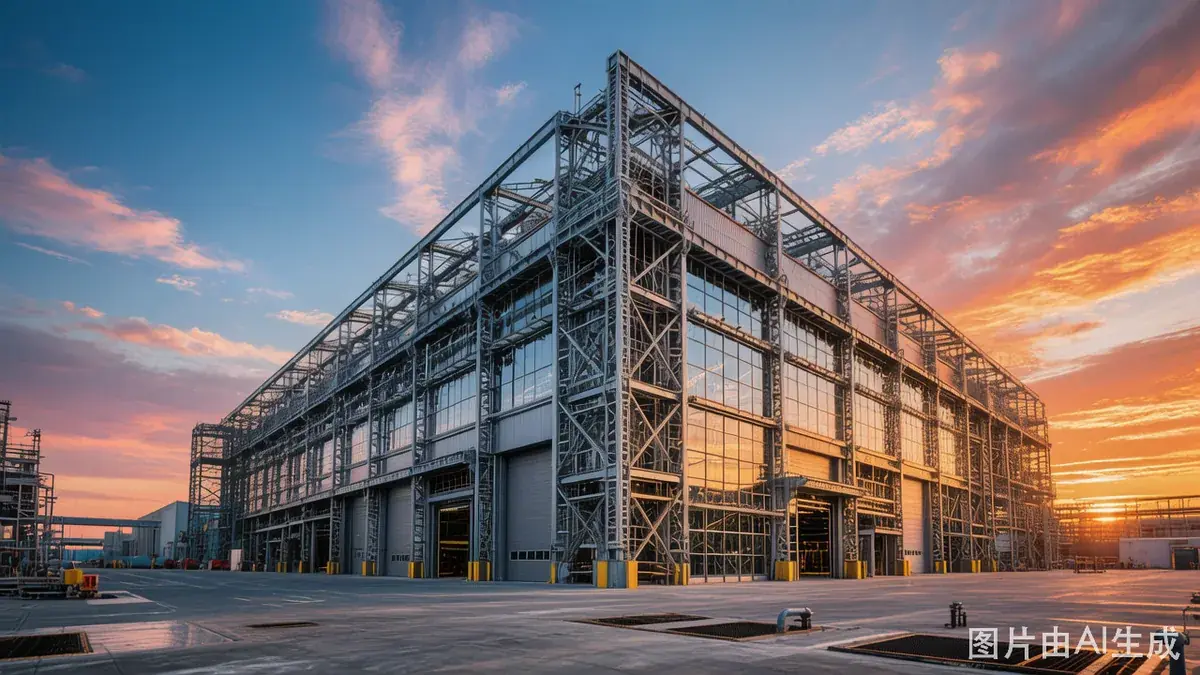
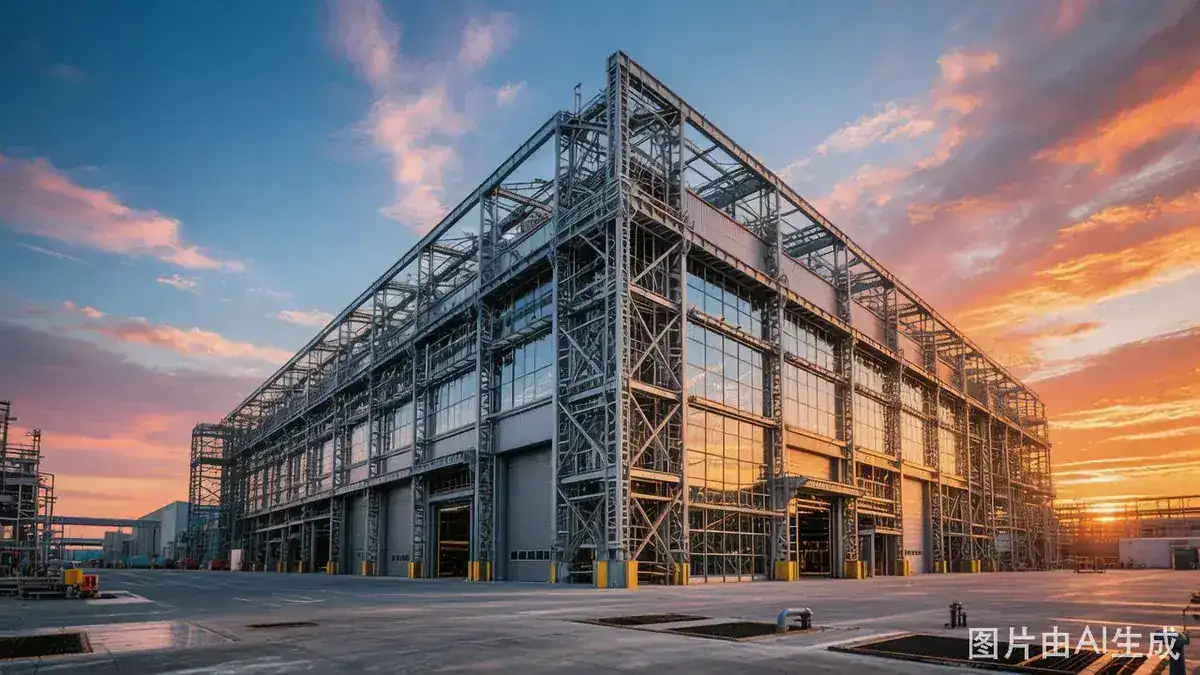
perf: Aggressive LCP optimization for PageSpeed
Priority 1 - LCP Optimization (5.4s → target 2.5s):
- Compressed hero-bg.webp: 100KB → 80KB (quality 50)
- Removed all animations from Hero section (fade-in-up, delays)
- Added vercel.json with aggressive caching headers for images (1 year)

Changes:
- public/images/hero-bg.webp: Further compressed for faster LCP
- src/components/Hero.tsx: Removed animate-fade-in-up classes from headline, badge, subtitle, CTA buttons, trust indicators, social proof
- vercel.json: Added Cache-Control headers (max-age=31536000, immutable) for images and static assets

Expected improvement:
- LCP should improve significantly (target: ≤2.5s)
- TBT may improve due to reduced animation calculations
- CLS should remain 0

diff --git a/src/components/Hero.tsx b/src/components/Hero.tsx
@@ -84,8 +84,8 @@ export default function Hero() {
       {/* ===== Main Content ===== */}
       <div className="relative max-w-7xl mx-auto px-4 sm:px-6 lg:px-8 py-24 sm:py-28 lg:py-36 w-full">
         <div className="max-w-2xl lg:max-w-2xl">
-          {/* Badge */}
-          <div className="inline-flex items-center gap-2 px-4 py-2 rounded-full bg-white/[0.08] backdrop-blur-sm border border-white/[0.12] mb-8 animate-fade-in-up hover:border-white/25 transition-colors group">
+          {/* Badge — no animation */}
+          <div className="inline-flex items-center gap-2 px-4 py-2 rounded-full bg-white/[0.08] backdrop-blur-sm border border-white/[0.12] mb-8">
             <span className="relative flex h-2.5 w-2.5">
               <span className="animate-ping absolute inline-flex h-full w-full rounded-full bg-green-badge opacity-75"></span>
               <span className="relative inline-flex rounded-full h-2.5 w-2.5 bg-green-badge shadow-[0_0_6px_rgba(29,158,117,0.5)]"></span>
@@ -95,9 +95,9 @@ export default function Hero() {
             </p>
           </div>
 
-          {/* Headline */}
+          {/* Headline — no animation for faster LCP */}
           <h1
-            className="text-[2.5rem] sm:text-4xl lg:text-[3.75rem] xl:text-[4.25rem] font-bold leading-[1.08] mb-6 animate-fade-in-up animation-delay-100 tracking-tight"
+            className="text-[2.5rem] sm:text-4xl lg:text-[3.75rem] xl:text-[4.25rem] font-bold leading-[1.08] mb-6"
           >
             <span className="block text-white">Custom Steel Structures</span>
             <span className="block mt-1 bg-gradient-to-r from-[#7dd3fc] via-[#38bdf8] to-[#FF6B00] bg-clip-text text-transparent drop-shadow-[0_2px_16px_rgba(55,138,221,0.25)]">
@@ -106,13 +106,13 @@ export default function Hero() {
             <span className="block mt-1 text-gray-300 text-[0.65em] font-semibold">Factory Direct Pricing — Get a Free Quote in 24h</span>
           </h1>
 
-          {/* Subtitle */}
-          <p className="text-lg sm:text-xl text-gray-300/90 mb-10 leading-relaxed animate-fade-in-up animation-delay-200 font-light max-w-lg">
+          {/* Subtitle — no animation */}
+          <p className="text-lg sm:text-xl text-gray-300/90 mb-10 leading-relaxed font-light max-w-lg">
             5,000T/Month Production Capacity &middot; 15+ Years Experience &middot; CE & ISO Certified
           </p>
 
-          {/* CTA Buttons */}
-          <div className="flex flex-wrap gap-4 mb-8 animate-fade-in-up animation-delay-300">
+          {/* CTA Buttons — no animation */}
+          <div className="flex flex-wrap gap-4 mb-8">
             <a
               href="/contact"
               className="group inline-flex items-center px-10 py-5 text-lg font-bold text-white bg-[#FF6B00] hover:bg-[#e55a00] rounded-xl transition-all duration-300 shadow-[0_8px_32px_rgba(255,107,0,0.4)] hover:shadow-[0_12px_48px_rgba(255,107,0,0.6)] hover:-translate-y-1 active:translate-y-0"
@@ -133,8 +133,8 @@ export default function Hero() {
             </a>
           </div>
 
-          {/* Trust Indicators — Certification Logos */}
-          <div className="animate-fade-in-up animation-delay-400">
+          {/* Trust Indicators — Certification Logos — no animation */}
+          <div className="mt-8">
             <p className="text-xs text-gray-400 mb-3 uppercase tracking-wider">Trusted & Certified By</p>
             <div className="flex items-center gap-6">
               {/* CE Certification Logo */}
@@ -152,8 +152,8 @@ export default function Hero() {
             </div>
           </div>
 
-          {/* Social Proof — Recent Activity */}
-          <div className="mt-6 animate-fade-in-up animation-delay-500">
+          {/* Social Proof — Recent Activity — no animation */}
+          <div className="mt-6">
             <p className="text-sm text-gray-400">
               <span className="inline-block w-2 h-2 bg-green-400 rounded-full mr-2 animate-pulse"></span>
               <span className="text-green-400 font-semibold">12+</span> companies requested quotes this month